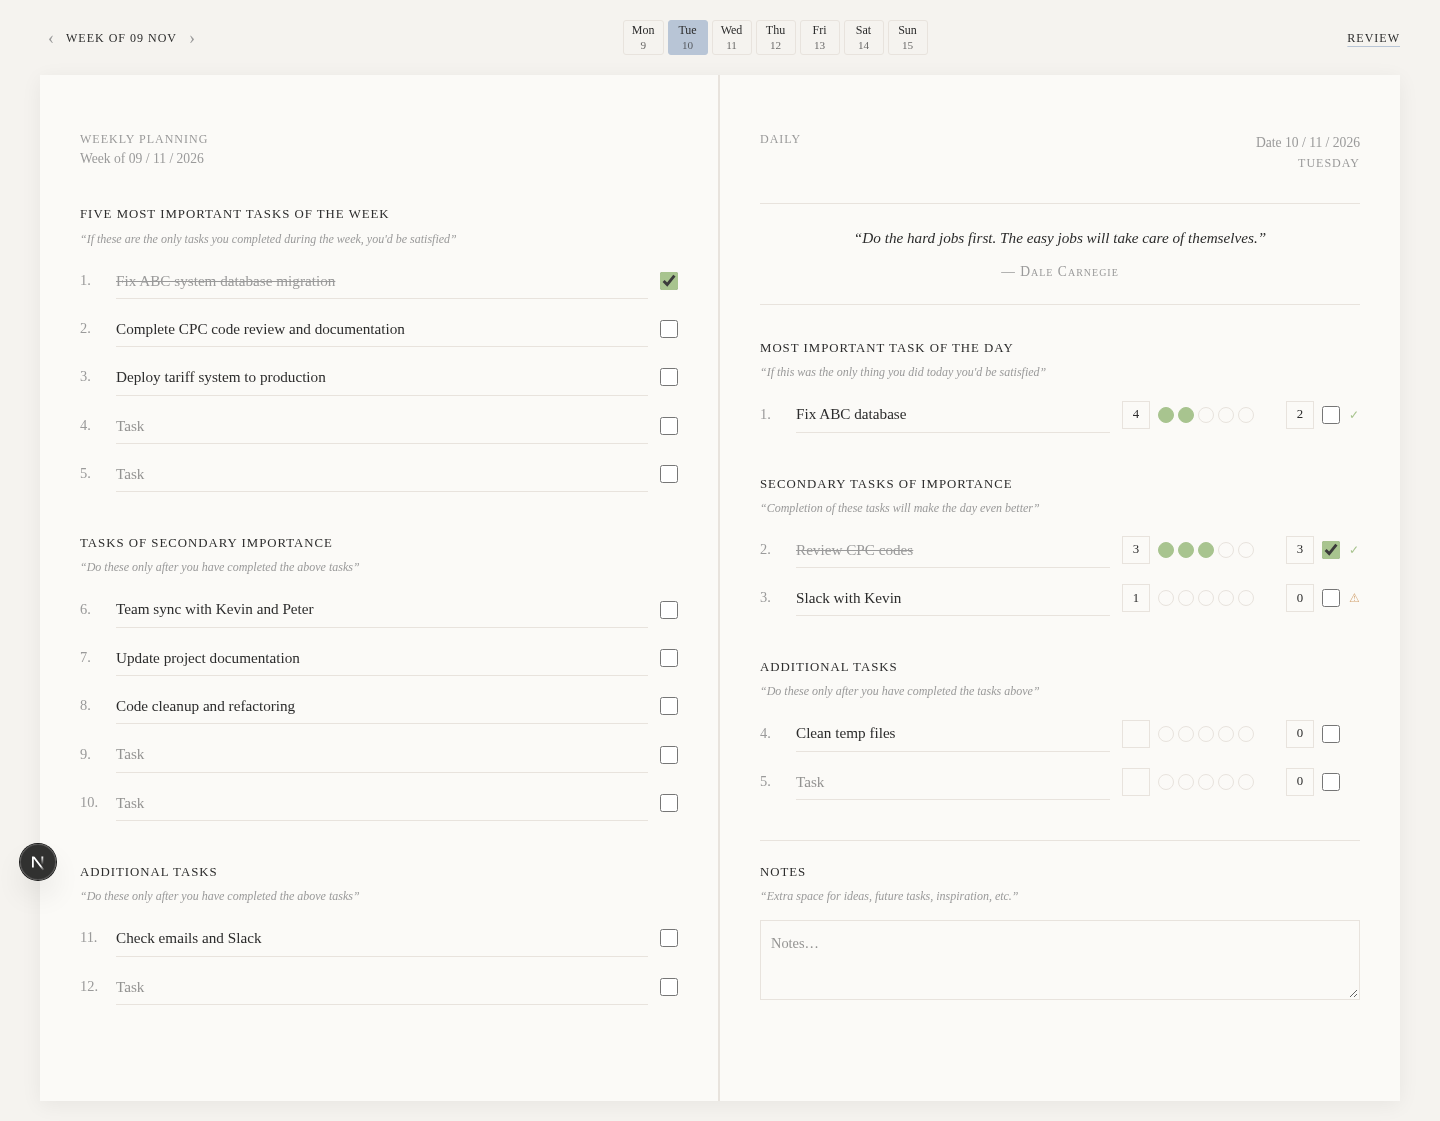
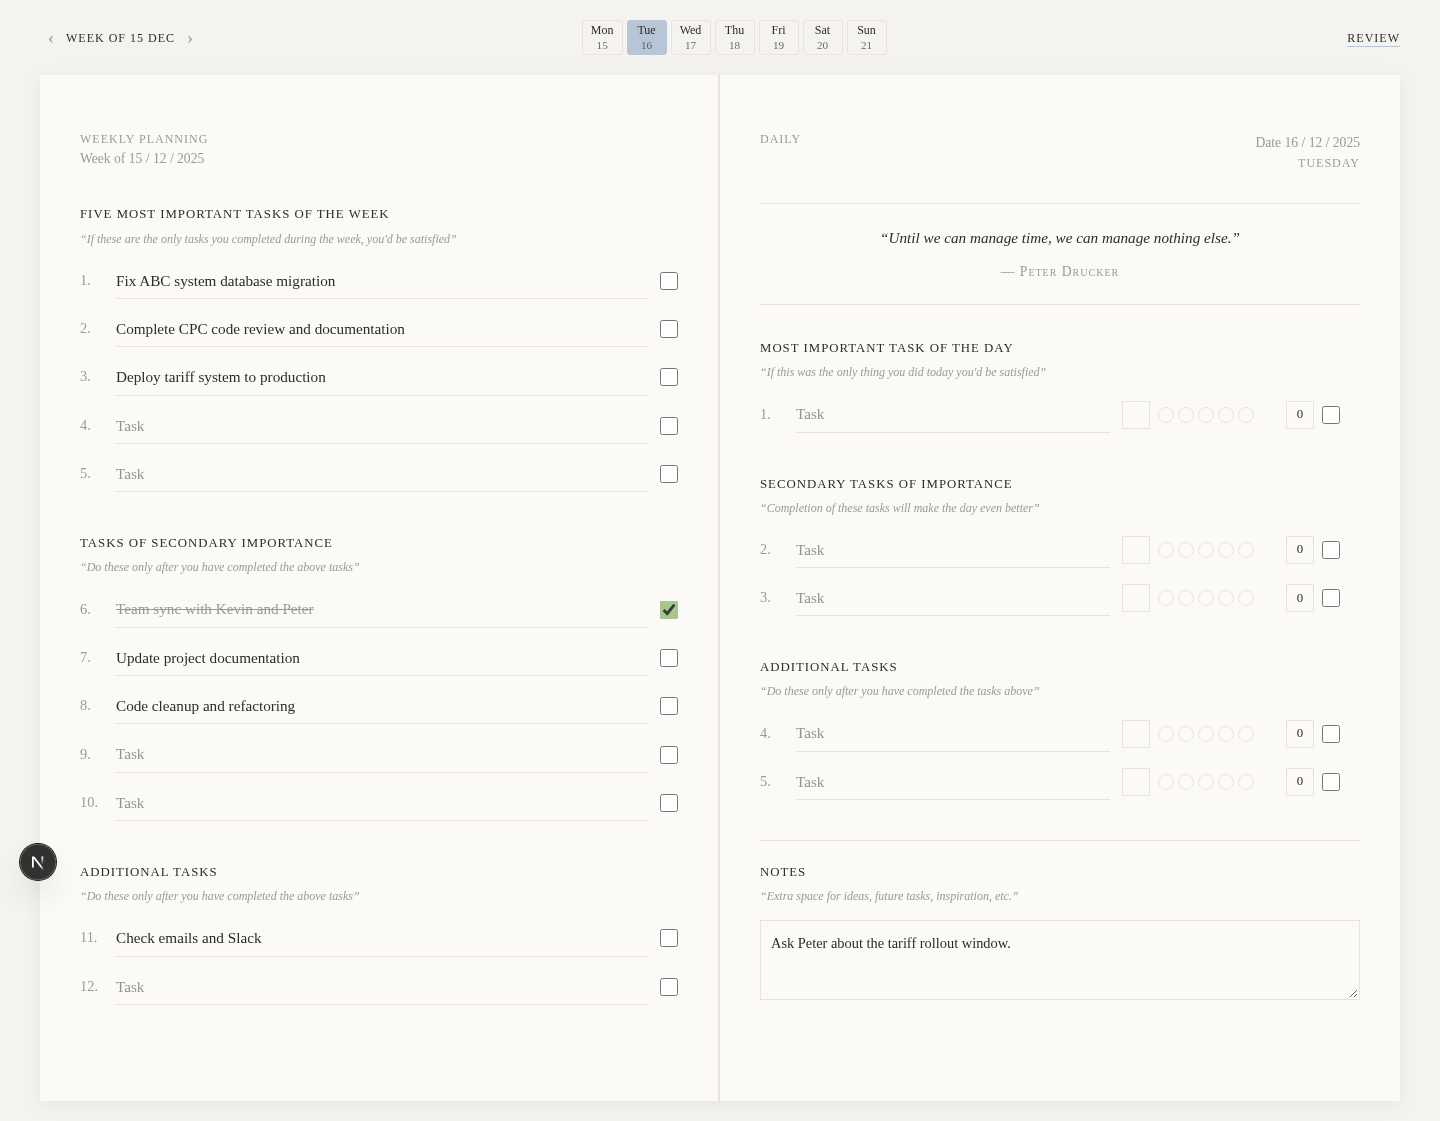
docs: layout review screenshots and comparison note vs prototype

diff --git a/docs/PROGRESS.md b/docs/PROGRESS.md
@@ -264,3 +264,27 @@ Decisions:
 - Failed saves show "not saved" in the warm color. The brief only names "saved", but silently losing data seemed worse. → listed in OPEN_QUESTIONS.
 
 Next: phase 4 (AI estimate route, inline feasibility, target override, overload warning).
+
+## Phase 3d — Layout review against the prototype (awaiting human approval)
+
+Screenshots (all in `docs/screenshots/`, regenerated from the Supabase-wired app on 2025-12-16 with prototype-like data):
+- `compare-1440.png`: prototype (left) and app (right) side by side at 1440px.
+- `compare-390.png`: the same at 390px.
+- Single shots: `planner-1440.png`, `planner-390.png`, `planner-390-week-open.png`, `prototype-1440.png` and `prototype-390.png`.
+
+How they were made:
+- A throwaway user (deleted afterwards) opened `/?date=2025-12-16`.
+- Week and day tasks were filled in with the service role (same titles as the prototype, plus targets, feasibility marks and one "+1" overflow), then the page was reloaded and captured with headless Chromium.
+- No console errors. At 390px `scrollWidth` is 390, so there's no horizontal scroll.
+
+Deliberate differences from the prototype (required by the brief):
+1. **Top bar** replaces the prototype's sage "Daily Planner / Weekly Review" buttons and its full-name day buttons. It holds ‹ Week of DD MMM ›, a Mon–Sun selector (selected day in skyblue, today underlined), a Review link and the "saved" text indicator (§7).
+2. **Day task row:** number · underline input · **target box** · **5 bubbles** (the prototype has 3) · **actual box** · checkbox · feasibility mark (§4). Over 5, the actual box shows "+N".
+3. **Week tasks have a checkbox** (§1). The prototype's week rows have none.
+3a. A done task stays editable: its title is muted with a line-through. The prototype disables the input instead, but the brief says everything stays editable.
+4. **Real dates** are shown ("Week of dd / MM / yyyy", "Date dd / MM / yyyy"), not the blank `___/___/20__`.
+5. **Colours:** pages use the `paper` (#FBFAF7) surface on a `cream` background (§4 tokens). The prototype has cream pages on a white card.
+6. **Breakpoint:** the pages sit side by side at ≥900px and stack below that (§4). The prototype stacks below 1024px. On mobile the weekly page is collapsible ("Show ▾ / Hide ▴") and collapsed by default.
+7. **Weekly Review** will be its own route `/review` (phase 5), not a toggle on the same page. **Close the day** (rating circles etc.) also comes in phase 5, so it isn't on the screenshots yet.
+
+Open: **a human needs to look at the compare images and approve or list visual fixes** (the agent can't view images; checks were DOM-based).
